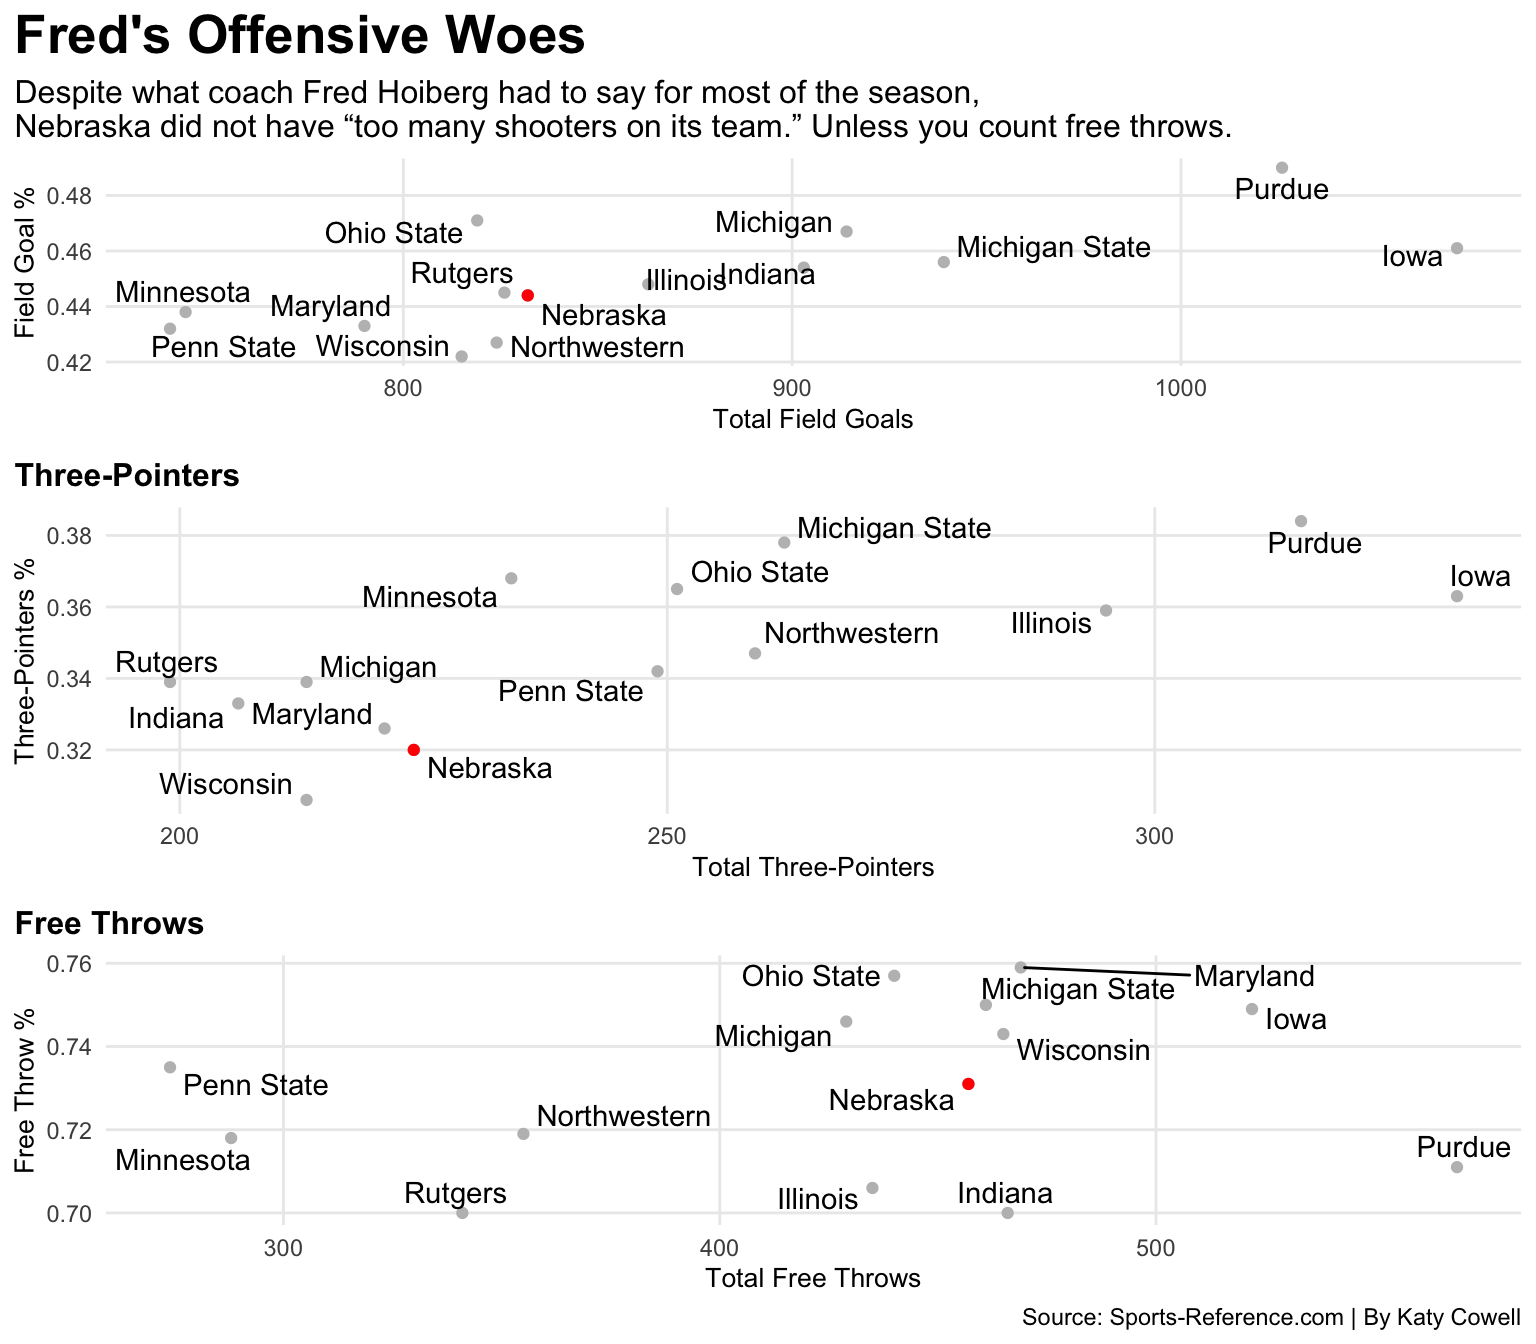
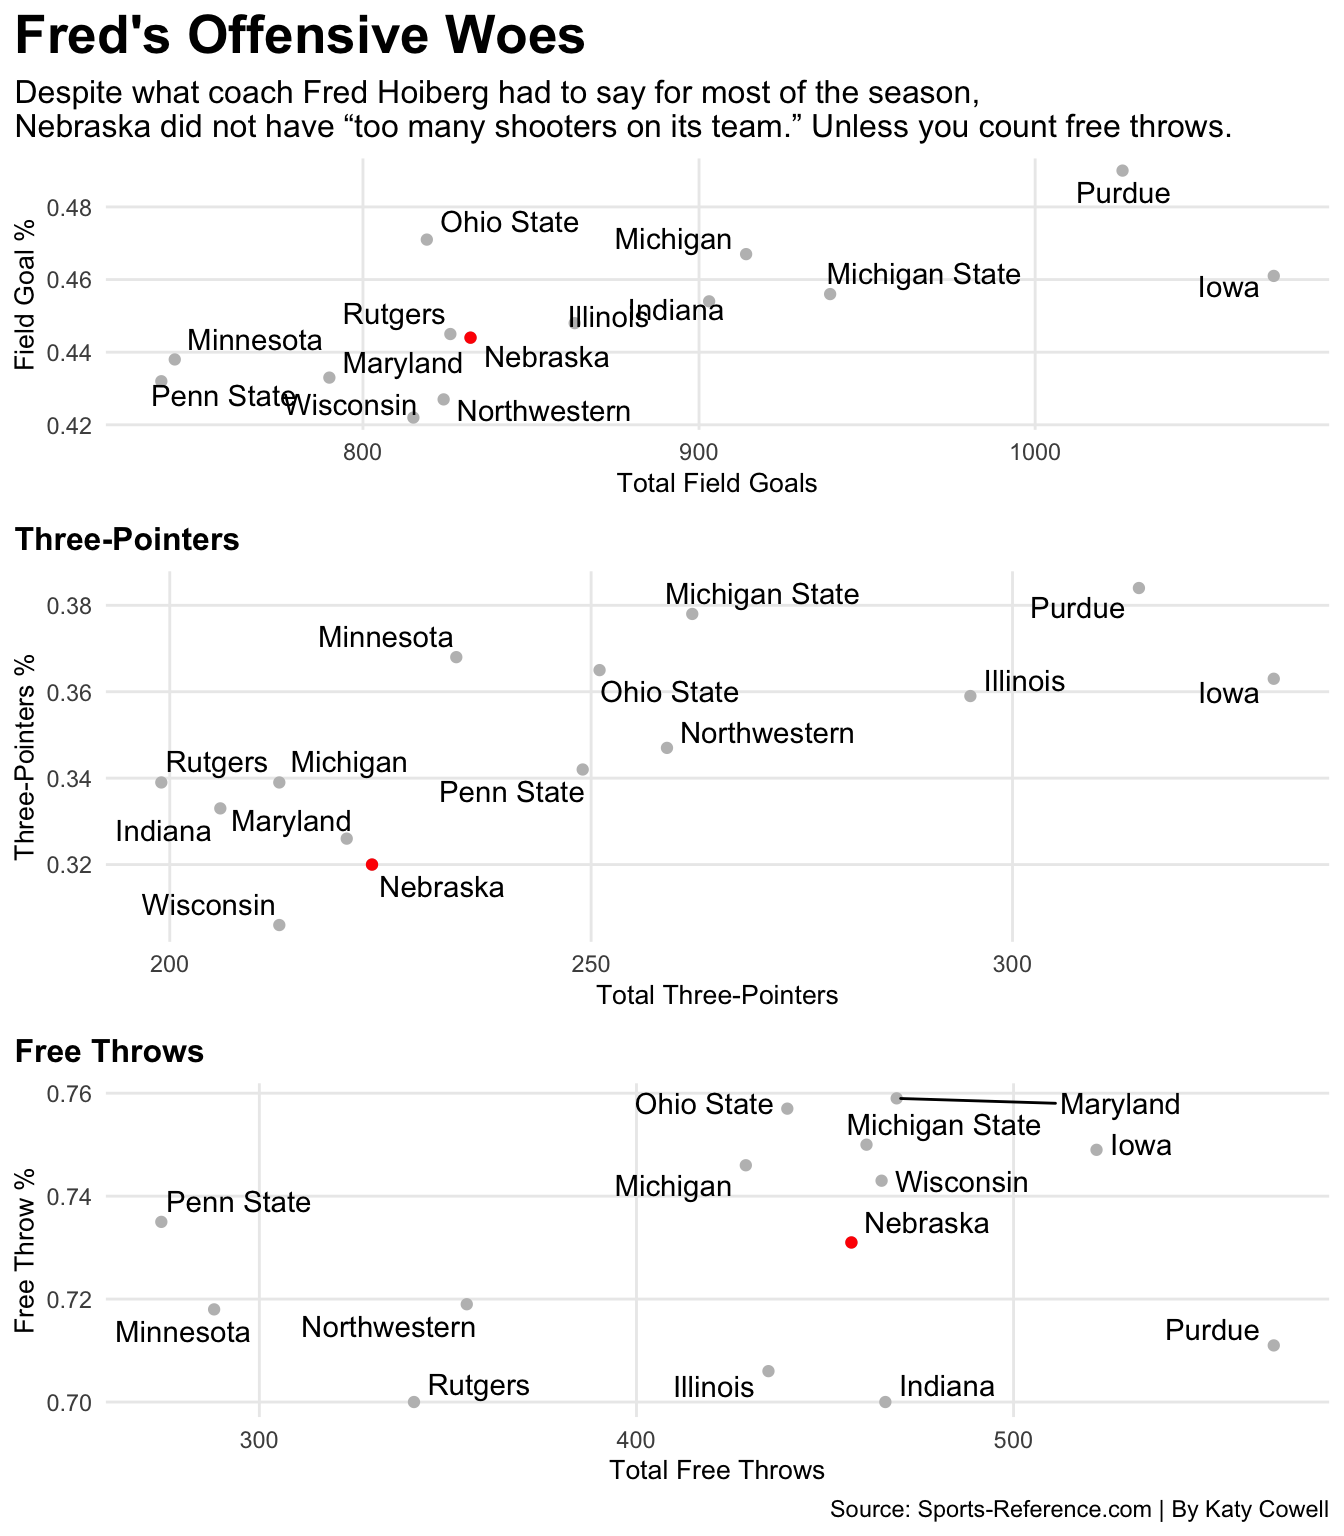
size

diff --git a/2022/04/10/nebraskas-eleven-million-dollar-question/index.html b/2022/04/10/nebraskas-eleven-million-dollar-question/index.html
@@ -75,7 +75,7 @@
 <p>There were $18.5 million reasons for him to stay, but public pressure and a not so pretty track record led to a restructured contract that reduced Hoiberg’s buyout to only $11 million.</p>
 <p>Back for a fourth season, what does Fred Hoiberg need to do to win in the Big Ten?</p>
 <p>Game statistics from Sports Reference can help answer this question.</p>
-<p><img src="/2022/04/10/nebraskas-eleven-million-dollar-question/index_files/figure-html/unnamed-chunk-9-1.png" width="576" /></p>
+<p><img src="/2022/04/10/nebraskas-eleven-million-dollar-question/index_files/figure-html/unnamed-chunk-9-1.png" width="672" /></p>
 <p>Rebounding.</p>
 <p>Rebounds provide another scoring opportunity, and to put it simply, the Huskers were not the best. Minnesota saved Nebraska from being the worst rebounding team in the Big Ten and also gave them their first conference win.</p>
 <p>How nice of the Golden Gophers.</p>
@@ -86,7 +86,7 @@
 <p>Continuing to focus on effort-based plays, hustle statistics look at steals and blocks.</p>
 <p>Alonzo Verge Jr. ranked third in the conference with 1.6 steals a game. And thanks to Verge, Nebraska holds its own with the Big Ten Champions, Iowa, when it comes to steals. Just 34 steals separated Nebraska in second place behind Iowa.</p>
 <p>Blocks are a different story; maybe that’s something to work on in practice. (Write that down Fred.)</p>
-<p><img src="/2022/04/10/nebraskas-eleven-million-dollar-question/index_files/figure-html/unnamed-chunk-16-1.png" width="768" /></p>
+<p><img src="/2022/04/10/nebraskas-eleven-million-dollar-question/index_files/figure-html/unnamed-chunk-16-1.png" width="672" /></p>
 <p>Shooting.</p>
 <p>What was hyped up in the preseason to be a team full of “shooters,” the Nebraska offense boosted by 5-star recruit, Bryce McGowens, still fell short.</p>
 <p>Below average in field goals and three-pointers, the Huskers couldn’t seem to get a consistent offense going last year. Nebraska shot more than most of the Big Ten but had a little less than a 50/50 chance of making their shots. Those odds dramatically decrease when looking at three-pointers. Nebraska attempted 701 3-point shots and made only 224 of them.</p>
